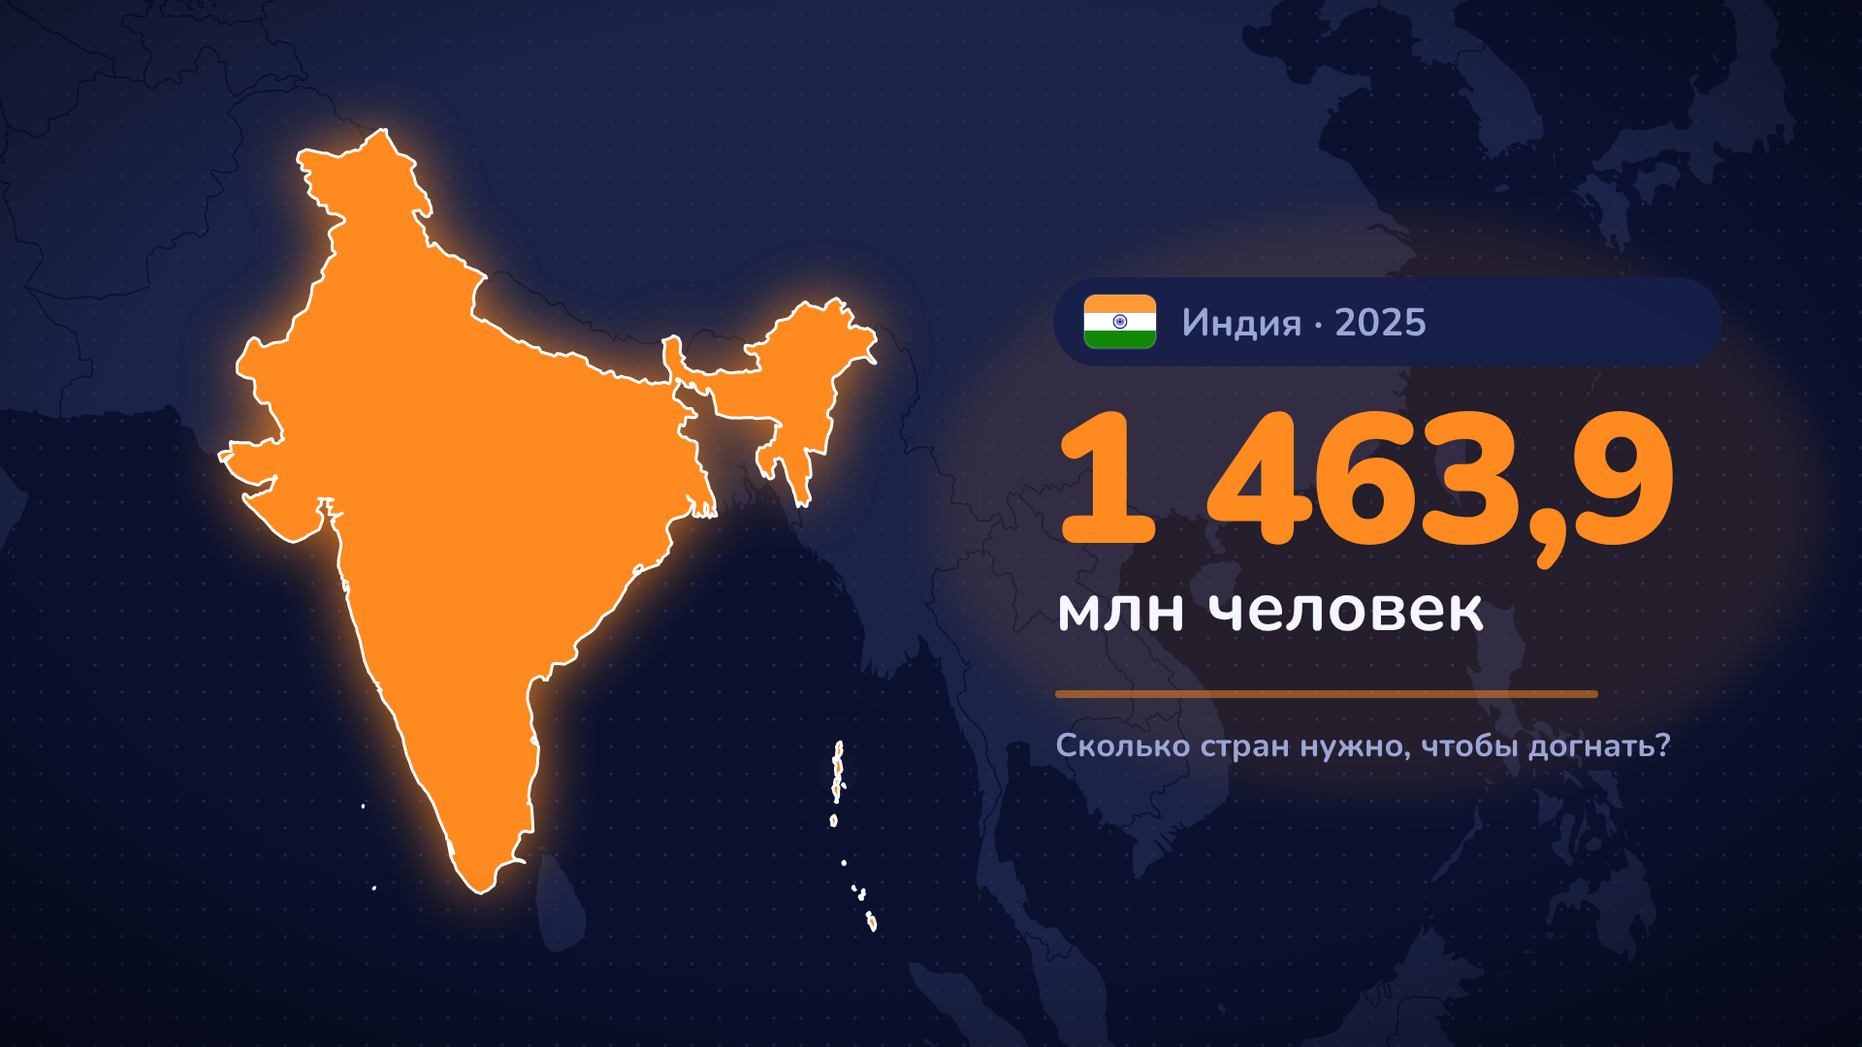
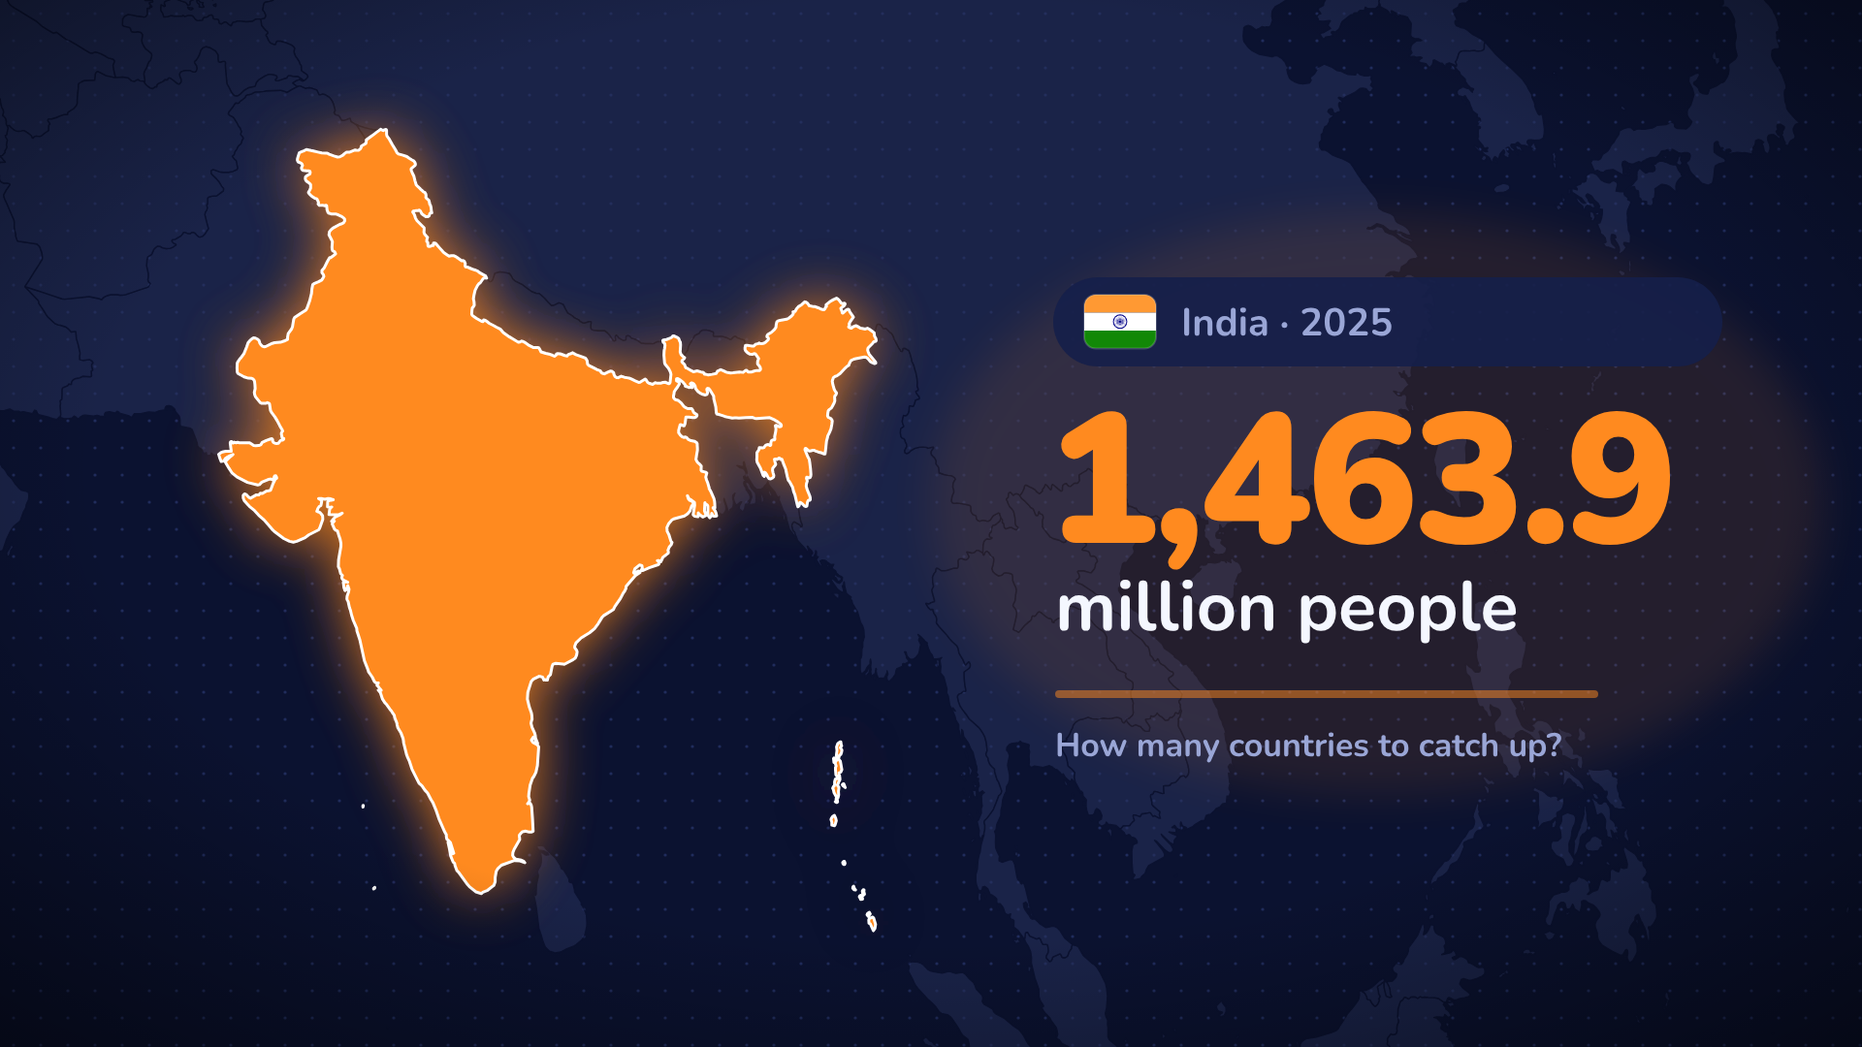
India vs world: switch mockup frames to English (on-screen text, VO, number format)
Claude-Session: https://claude.ai/code/session_01SGWJ4SLMudwh6zrv9sFXaG

diff --git a/india-vs-world/frames.js b/india-vs-world/frames.js
@@ -1,18 +1,18 @@
-// Макет кадров «Сколько стран нужно, чтобы сравняться с Индией». 16:9, тёмная карта, всё скруглено.
+// Макет кадров «How many countries does it take to match India?» (EN). 16:9, тёмная карта, всё скруглено.
 const W=1920,H=1080;
 const COL={bg:'#0B1230',sea2:'#101A40',land:'#27315C',land2:'#323D6E',edge:'#0B1230',ind:'#FF8A1F',ind2:'#FFB25E',tq:'#2EE6C8',tq2:'#17B8A6',
   ui:'#151F4A',ui2:'#1D2A5E',txt:'#F4F7FF',mut:'#9AA6D6',hi:'#FFFFFF'};
-const INDIA={id:'356',fl:'in',name:'Индия',pop:1463.9};
+const INDIA={id:'356',fl:'in',name:'India',pop:1463.9};
 // порядок добавления: id ISO, флаг, название, млн, сумма (оценки 2025, UN WPP 2024)
-const LIST=[['858','uy','Уругвай',3.4,3.4],['578','no','Норвегия',5.6,9.0],['246','fi','Финляндия',5.6,14.6],['208','dk','Дания',6.0,20.6],
-  ['600','py','Парагвай',7.0,27.6],['752','se','Швеция',10.7,38.3],['068','bo','Боливия',12.6,50.9],['218','ec','Эквадор',18.3,69.2],
-  ['528','nl','Нидерланды',18.3,87.5],['152','cl','Чили',19.9,107.4],['036','au','Австралия',27.0,134.4],['604','pe','Перу',34.6,168.9],
-  ['124','ca','Канада',40.1,209.1],['032','ar','Аргентина',45.9,254.9],['724','es','Испания',47.9,302.8],['410','kr','Южная Корея',51.7,354.5],
-  ['170','co','Колумбия',53.4,407.9],['380','it','Италия',59.1,467.0],['250','fr','Франция',66.7,533.7],['826','gb','Великобритания',69.6,603.2],
-  ['276','de','Германия',84.1,687.3],['792','tr','Турция',87.7,775.0],['392','jp','Япония',123.1,898.1],['076','br','Бразилия',212.8,1110.9],
-  ['840','us','США',347.3,1458.2],['702','sg','Сингапур',5.9,1464.1]];
-const fmt=v=>{const [a,b]=v.toFixed(1).split('.');return a.replace(/\B(?=(\d{3})+$)/g,' ')+','+b;};
-const pct=v=>(v/INDIA.pop*100).toFixed(1).replace('.',',');
+const LIST=[['858','uy','Uruguay',3.4,3.4],['578','no','Norway',5.6,9.0],['246','fi','Finland',5.6,14.6],['208','dk','Denmark',6.0,20.6],
+  ['600','py','Paraguay',7.0,27.6],['752','se','Sweden',10.7,38.3],['068','bo','Bolivia',12.6,50.9],['218','ec','Ecuador',18.3,69.2],
+  ['528','nl','Netherlands',18.3,87.5],['152','cl','Chile',19.9,107.4],['036','au','Australia',27.0,134.4],['604','pe','Peru',34.6,168.9],
+  ['124','ca','Canada',40.1,209.1],['032','ar','Argentina',45.9,254.9],['724','es','Spain',47.9,302.8],['410','kr','South Korea',51.7,354.5],
+  ['170','co','Colombia',53.4,407.9],['380','it','Italy',59.1,467.0],['250','fr','France',66.7,533.7],['826','gb','United Kingdom',69.6,603.2],
+  ['276','de','Germany',84.1,687.3],['792','tr','Türkiye',87.7,775.0],['392','jp','Japan',123.1,898.1],['076','br','Brazil',212.8,1110.9],
+  ['840','us','United States',347.3,1458.2],['702','sg','Singapore',5.9,1464.1]];
+const fmt=v=>{const [a,b]=v.toFixed(1).split('.');return a.replace(/\B(?=(\d{3})+$)/g,',')+'.'+b;};
+const pct=v=>(v/INDIA.pop*100).toFixed(1);
 const T=(x,y,s,txt,{w=900,col=COL.txt,a='start',f='Round',op=1,ls=0}={})=>`<text x="${x}" y="${y}" font-family="${f}" font-weight="${w}" font-size="${s}" fill="${col}" text-anchor="${a}" opacity="${op}" letter-spacing="${ls}">${txt}</text>`;
 const R=(x,y,w,h,r,fill,extra='')=>`<rect x="${x}" y="${y}" width="${w}" height="${h}" rx="${r}" fill="${fill}" ${extra}/>`;
 let _cid=0;
@@ -43,12 +43,12 @@ const defs=`<defs><filter id="glow" x="-50%" y="-50%" width="200%" height="200%"
 const bg=()=>R(0,0,W,H,0,COL.bg)+R(0,0,W,H,0,'url(#dots)');
 const vig=()=>R(0,0,W,H,0,'url(#vig)');
 // ---------- интерфейс ----------
-const added=n=>R(40,36,390,92,46,COL.ui,'fill-opacity=".92"')+T(80,93,30,'Добавлено:',{w:700,f:'Body',col:COL.mut})+T(392,104,60,String(n).padStart(2,'0'),{col:COL.tq,a:'end'});
-const target=()=>R(1270,36,610,92,46,COL.ui,'fill-opacity=".92"')+flag('in',1302,58,64,10)+T(1388,99,38,'Индия —',{w:700,f:'Body',col:COL.mut})+T(1846,101,44,fmt(INDIA.pop)+' млн',{col:COL.ind,a:'end'});
+const added=n=>R(40,36,300,92,46,COL.ui,'fill-opacity=".92"')+T(80,93,30,'Added:',{w:700,f:'Body',col:COL.mut})+T(300,104,60,String(n).padStart(2,'0'),{col:COL.tq,a:'end'});
+const target=()=>R(1370,36,510,92,46,COL.ui,'fill-opacity=".92"')+flag('in',1402,58,64,10)+T(1488,99,38,'India —',{w:700,f:'Body',col:COL.mut})+T(1846,101,44,fmt(INDIA.pop)+'M',{col:COL.ind,a:'end'});
 function card(i){const [id,fl,name,pop,sum]=LIST[i-1];const x=1478,y=168,w=402;
   return R(x+8,y+14,w,488,44,'#000','fill-opacity=".25"')+R(x,y,w,488,44,COL.ui)+R(x,y,w,488,44,'none',`stroke="${COL.tq}" stroke-opacity=".35" stroke-width="3"`)+
-    flag(fl,x+36,y+36,330,26)+R(x+36,y+300,104,52,26,COL.tq)+T(x+88,y+337,30,'№ '+i,{col:COL.bg,a:'middle'})+
-    T(x+36,y+404,name.length>11?44:58,name)+T(x+36,y+460,50,fmt(pop)+' млн',{col:COL.tq})+T(x+w-36,y+460,22,'2025',{w:700,f:'Body',col:COL.mut,a:'end'});}
+    flag(fl,x+36,y+36,330,26)+R(x+36,y+300,104,52,26,COL.tq)+T(x+88,y+337,30,'#'+i,{col:COL.bg,a:'middle'})+
+    T(x+36,y+404,name.length>11?46:58,name)+T(x+36,y+460,50,fmt(pop)+'M',{col:COL.tq})+T(x+w-36,y+460,22,'2025',{w:700,f:'Body',col:COL.mut,a:'end'});}
 // нижняя шкала: доля от населения Индии, отметки 25/50/75 и цель
 function bar(sum,{flash=null,callout=false}={}){const x0=96,x1=1740,y=980,h=40,L=x1-x0,fx=x0+L*Math.min(sum/INDIA.pop,1.02);
   let s=R(40,898,1840,154,46,COL.ui,'fill-opacity=".94"')+R(x0,y,L,h,h/2,COL.ui2);
@@ -56,8 +56,8 @@ function bar(sum,{flash=null,callout=false}={}){const x0=96,x1=1740,y=980,h=40,L
   if(flash){const mx=x0+L*flash/100;s+=`<circle cx="${mx}" cy="${y+h/2}" r="60" fill="#fff" opacity=".25" filter="url(#glow)"/>`;}
   s+=R(x0,y,Math.max(fx-x0,h),h,h/2,COL.tq)+R(x0+10,y+7,Math.max(fx-x0-20,10),9,4.5,'#fff','fill-opacity=".35"');
   // цель
-  s+=R(x1-4,y-20,8,h+40,4,COL.ind)+flag('in',x1+26,y-14,64,10)+T(x1+58,y+70,22,'ЦЕЛЬ',{w:700,f:'Body',col:COL.ind,a:'middle'});
-  s+=T(x0,y-22,26,fmt(sum)+' млн · '+pct(sum)+'%',{col:COL.txt,a:'start'});
+  s+=R(x1-4,y-20,8,h+40,4,COL.ind)+flag('in',x1+26,y-14,64,10)+T(x1+58,y+70,22,'GOAL',{w:700,f:'Body',col:COL.ind,a:'middle'});
+  s+=T(x0,y-22,26,fmt(sum)+'M · '+pct(sum)+'%',{col:COL.txt,a:'start'});
   return s;}
 // ---------- кадры ----------
 const F={};
@@ -65,32 +65,32 @@ const F={};
 F[1]=()=>{const cam=fit(VIEWS.india,[60,90,1080,1010]);
   return bg()+map(cam,{focus:INDIA.id,dimOthers:true})+vig()+
     `<ellipse cx="1420" cy="520" rx="460" ry="300" fill="${COL.ind}" opacity=".10" filter="url(#soft)"/>`+
-    R(1086,286,690,92,46,COL.ui,'fill-opacity=".9"')+flag('in',1118,304,74,12)+T(1218,346,40,'Индия · 2025',{w:700,f:'Body',col:COL.mut})+
-    T(1080,560,190,fmt(INDIA.pop),{col:COL.ind,ls:-4})+T(1088,650,72,'млн человек',{w:700,f:'Body'})+
-    R(1088,712,560,8,4,COL.ind,'fill-opacity=".5"')+T(1088,780,34,'Сколько стран нужно, чтобы догнать?',{w:700,f:'Body',col:COL.mut});};
+    R(1086,286,690,92,46,COL.ui,'fill-opacity=".9"')+flag('in',1118,304,74,12)+T(1218,346,40,'India · 2025',{w:700,f:'Body',col:COL.mut})+
+    T(1080,560,190,fmt(INDIA.pop),{col:COL.ind,ls:-4})+T(1088,650,72,'million people',{w:700,f:'Body'})+
+    R(1088,712,560,8,4,COL.ind,'fill-opacity=".5"')+T(1088,780,34,'How many countries to catch up?',{w:700,f:'Body',col:COL.mut});};
 // 2 · ~1:50 — 10 стран: сравнение на одной шкале
 F[2]=()=>{const cam=fit(VIEWS.southAm,[880,150,1440,880]);const sum=107.4,BW=740;
   const flags=LIST.slice(0,10).map((c,k)=>flag(c[1],92+k*72,522,58,9)).join('');
   return bg()+map(cam,{added:10,focus:'152'})+vig()+
-    R(52,168,820,476,44,COL.ui,'fill-opacity=".94"')+T(92,252,64,'Уже <tspan fill="'+COL.tq+'">10</tspan> стран')+
-    T(92,322,28,'Одна шкала для обеих полос',{w:700,f:'Body',col:COL.mut})+
-    R(92,366,BW,40,20,COL.ind)+T(112,395,24,'ИНДИЯ · '+fmt(INDIA.pop)+' млн',{col:COL.bg})+
-    R(92,446,BW*sum/INDIA.pop,40,20,COL.tq)+T(92+BW*sum/INDIA.pop+18,475,24,'10 СТРАН · '+fmt(sum)+' млн',{col:COL.tq})+
-    flags+T(92,612,30,'…и это чуть больше <tspan fill="'+COL.tq+'" font-family="Round" font-weight="900">7%</tspan>',{w:700,f:'Body'})+
+    R(52,168,820,476,44,COL.ui,'fill-opacity=".94"')+T(92,252,64,'<tspan fill="'+COL.tq+'">10</tspan> countries in')+
+    T(92,322,28,'Both bars on the same scale',{w:700,f:'Body',col:COL.mut})+
+    R(92,366,BW,40,20,COL.ind)+T(112,395,24,'INDIA · '+fmt(INDIA.pop)+'M',{col:COL.bg})+
+    R(92,446,BW*sum/INDIA.pop,40,20,COL.tq)+T(92+BW*sum/INDIA.pop+18,475,24,'10 COUNTRIES · '+fmt(sum)+'M',{col:COL.tq})+
+    flags+T(92,612,30,'…and that’s just over <tspan fill="'+COL.tq+'" font-family="Round" font-weight="900">7%</tspan>',{w:700,f:'Body'})+
     added(10)+target()+card(10)+bar(sum);};
 // 3 · ~4:25 — США: шкала встаёт у самой цели
 F[3]=()=>{const cam=fit([0,140,4000,1880],[40,140,1450,700]);const sum=1458.2,L=1740-96,fx=96+L*sum/INDIA.pop;
   const cx=1560,cy=760,r=96;
   return bg()+map(cam,{added:25,focus:'840'})+vig()+
-    R(52,716,1360,160,44,COL.ui,'fill-opacity=".94"')+T(84,846,140,'99,6<tspan font-size="90">%</tspan>',{col:COL.tq,ls:-3})+
-    R(520,748,6,96,3,'#3A4884')+T(560,786,44,'И всё равно не хватает')+T(560,840,34,'Осталось около <tspan fill="'+COL.ind+'" font-family="Round" font-weight="900">5,7 млн</tspan>',{w:700,f:'Body'})+
+    R(52,716,1360,160,44,COL.ui,'fill-opacity=".94"')+T(84,846,140,'99.6<tspan font-size="90">%</tspan>',{col:COL.tq,ls:-3})+
+    R(520,748,6,96,3,'#3A4884')+T(560,786,44,'Still not enough')+T(560,840,34,'About <tspan fill="'+COL.ind+'" font-family="Round" font-weight="900">5.7M</tspan> to go',{w:700,f:'Body'})+
     added(25)+target()+card(25)+bar(sum)+
     // лупа над концом шкалы: зазор между заливкой и целью
     `<path d="M${cx-30},${cy+r-4} Q${fx-6},${cy+r+40} ${fx-2},990" fill="none" stroke="#fff" stroke-width="4" stroke-linecap="round" stroke-dasharray="2 14" opacity=".8"/>`+
     `<clipPath id="lens"><circle cx="${cx}" cy="${cy}" r="${r}"/></clipPath><circle cx="${cx}" cy="${cy}" r="${r+10}" fill="#fff"/>`+
     `<g clip-path="url(#lens)">${R(cx-r,cy-r,2*r,2*r,0,COL.ui2)}${R(cx-r-40,cy-28,r+40-14,56,28,COL.tq)}${R(cx+14,cy-50,14,100,7,COL.ind)}
-      ${T(cx-6,cy+70,24,'5,7 млн',{col:COL.ind,a:'middle'})}</g>`;};
+      ${T(cx-6,cy+70,24,'5.7M',{col:COL.ind,a:'middle'})}</g>`;};
 const CAPS={
-  1:{t:'0:06',name:'Цель — Индия',cam:'Медленный наезд на тёмную карту, Индия заливается оранжевым с мягким свечением, счётчик бежит от 0 до 1 463,9 млн.',vo:'«В Индии живёт почти полтора миллиарда человек. Сколько стран нужно сложить, чтобы её догнать?»'},
-  2:{t:'1:50',name:'Десять стран — и только 7%',cam:'Камера на Южной Америке, Чили подсвечена белым контуром. Слева выезжает сравнение: две полосы на одной шкале и ряд из 10 флагов.',vo:'«Уже десять стран… а это чуть больше семи процентов.»'},
-  3:{t:'4:25',name:'США — и всё равно 99,6%',cam:'Отъезд на всю карту: 25 бирюзовых стран. Шкала дотягивается почти до цели и встаёт; лупа показывает зазор в 5,7 млн.',vo:'«Двадцать пять стран, включая США. И всё равно не хватает — около пяти миллионов.»'}};
+  1:{t:'0:06',name:'Цель — Индия',cam:'Медленный наезд на тёмную карту, Индия заливается оранжевым с мягким свечением, счётчик бежит от 0 до 1,463.9M.',vo:'“India is home to almost one and a half billion people. How many countries would it take to match that?”'},
+  2:{t:'1:50',name:'10 стран — и только 7%',cam:'Камера на Южной Америке, Чили подсвечена белым контуром. Слева выезжает сравнение: две полосы на одной шкале и ряд из 10 флагов.',vo:'“Ten countries in… and that’s just over seven percent.”'},
+  3:{t:'4:25',name:'США — и всё равно 99.6%',cam:'Отъезд на всю карту: 25 бирюзовых стран. Шкала дотягивается почти до цели и встаёт; лупа показывает зазор в 5.7M.',vo:'“Twenty-five countries, including the United States. And it’s still not enough — about five million short.”'}};

diff --git a/india-vs-world/board.html b/india-vs-world/board.html
@@ -1,4 +1,4 @@
-<!doctype html><html><head><meta charset="utf-8"><title>Индия против мира — макет</title><style>
+<!doctype html><html><head><meta charset="utf-8"><title>India vs the World — mockup</title><style>
 @font-face{font-family:Round;src:url(fonts/Nunito-900.ttf)}@font-face{font-family:Body;src:url(fonts/Nunito-700.ttf)}
 html,body{margin:0;background:#070C22}#board{width:2000px;padding:40px;box-sizing:border-box;font-family:Body;color:#fff}
 h1{font-family:Round;font-size:60px;margin:0 0 6px}p.sub{font-size:26px;margin:0 0 30px;color:#9AA6D6}
@@ -7,7 +7,7 @@ h1{font-family:Round;font-size:60px;margin:0 0 6px}p.sub{font-size:26px;margin:0
 .tc{display:inline-block;background:#2EE6C8;color:#0B1230;border-radius:14px;padding:2px 12px;margin-right:10px;font-family:Round;font-size:24px}
 .row{margin-top:6px}.lab{color:#FFB25E;font-family:Round}</style></head><body><div id="board"></div>
 <script src="frames.js"></script><script>
-document.getElementById('board').innerHTML=`<h1>Сколько стран нужно, чтобы догнать Индию? · макет кадров</h1><p class="sub">16:9 · 5:40 · тёмная карта, Индия оранжевая, добавленные страны бирюзовые · оценки 2025 (UN WPP 2024)</p>`+
+document.getElementById('board').innerHTML=`<h1>How many countries does it take to match India? · макет (EN)</h1><p class="sub">16:9 · 5:40 · тёмная карта, Индия оранжевая, добавленные страны бирюзовые · оценки 2025 (UN WPP 2024)</p>`+
  [1,2,3].map(n=>{const c=CAPS[n];return `<div class="card"><img src="frames/${n}.png"><div class="cap"><span class="tc">${n} · ${c.t}</span><b>${c.name}</b>
- <div class="row"><span class="lab">Камера и действие: </span>${c.cam}</div><div class="row"><span class="lab">Диктор: </span>${c.vo}</div></div></div>`;}).join('');
+ <div class="row"><span class="lab">Камера и действие: </span>${c.cam}</div><div class="row"><span class="lab">Voiceover: </span>${c.vo}</div></div></div>`;}).join('');
 window.ready=Promise.all([document.fonts.load('40px Round'),document.fonts.load('20px Body'),...[...document.images].map(i=>i.decode())]);</script></body></html>

diff --git a/india-vs-world/frame.html b/india-vs-world/frame.html
@@ -1,4 +1,4 @@
-<!doctype html><html><head><meta charset="utf-8"><title>Индия против мира — кадр</title><style>
+<!doctype html><html><head><meta charset="utf-8"><title>India vs the World — frame</title><style>
 @font-face{font-family:Round;src:url(fonts/Nunito-900.ttf)}@font-face{font-family:Body;src:url(fonts/Nunito-700.ttf)}
 html,body{margin:0;background:#0B1230}svg{display:block}</style></head><body><div id="s"></div>
 <script src="map-data.js"></script><script src="frames.js"></script>

diff --git a/india-vs-world/README.md b/india-vs-world/README.md
@@ -1,20 +1,22 @@
-# Сколько стран нужно, чтобы сравняться с Индией по населению? — макет кадров
+# How many countries does it take to match India? — макет кадров (EN)
+
+Версия для англоязычной аудитории: все надписи на экране и текст диктора на английском, числа в формате `1,463.9M`.
 
 16:9 · 5:40 · анимированная карта, флаги, счётчик, короткие комментарии. **Пока только макет: 3 ключевых кадра.**
 
 | Кадр | Тайм-код | Что показывает |
 |---|---|---|
-| `frames/1.png` | 0:06 | Цель: Индия оранжевая со свечением, счётчик 1 463,9 млн |
-| `frames/2.png` | ~1:50 | 10 стран (Чили): две полосы на одной шкале, ряд из 10 флагов, «чуть больше 7%» |
-| `frames/3.png` | ~4:25 | 25 стран (США): шкала встаёт на 99,6%, лупа на зазоре «осталось около 5,7 млн» |
+| `frames/1.png` | 0:06 | Цель: Индия оранжевая со свечением, счётчик 1,463.9 million people |
+| `frames/2.png` | ~1:50 | 10 стран (Чили): две полосы на одной шкале, ряд из 10 флагов, «…and that’s just over 7%» |
+| `frames/3.png` | ~4:25 | 25 стран (США): шкала встаёт на 99.6%, лупа на зазоре «About 5.7M to go» |
 
-`board.jpg` — все кадры с подписями: камера, действие, диктор.
+`board.jpg` — все кадры с подписями: камера, действие, voiceover.
 
 **Интерфейс на каждом кадре:**
-- слева сверху «Добавлено: NN»;
-- справа сверху «Индия — 1 463,9 млн» (не исчезает при зуме);
+- слева сверху «Added: NN»;
+- справа сверху «India — 1,463.9M» (не исчезает при зуме);
 - справа карточка страны: флаг, номер, название, население;
-- внизу шкала относительно Индии с отметками 25/50/75% и целью.
+- внизу шкала относительно Индии с отметками 25/50/75% и целью (GOAL).
 
 **Данные:** оценки за 2025 год (UN WPP 2024 / StatisticsTimes.com) из брифа, список `LIST` в `frames.js`.
 
